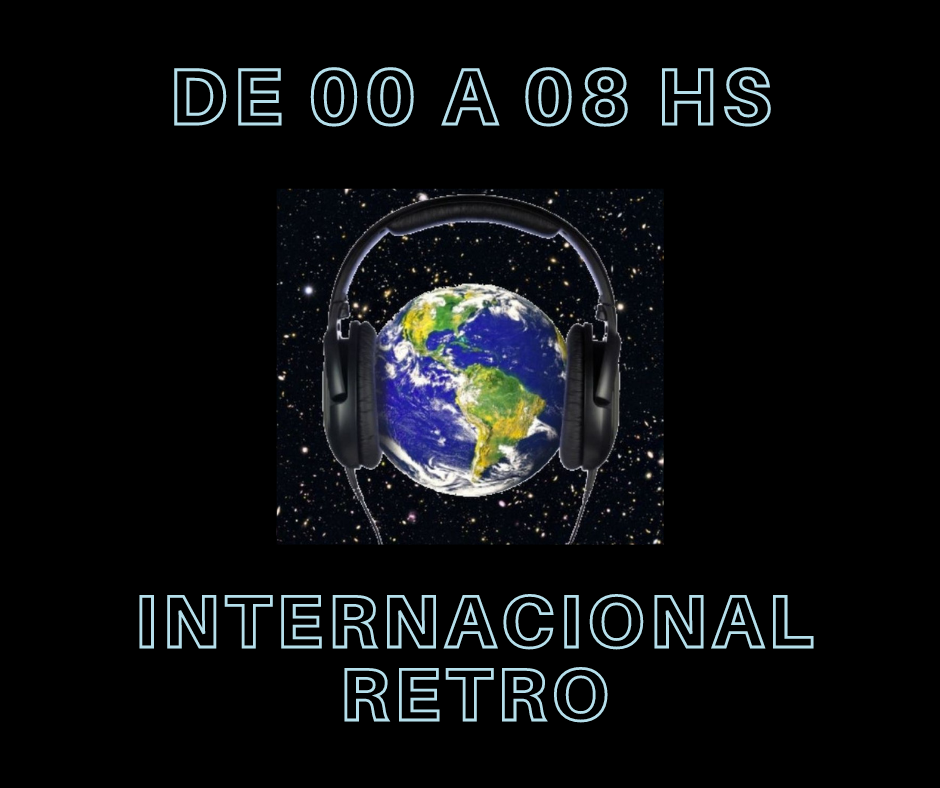
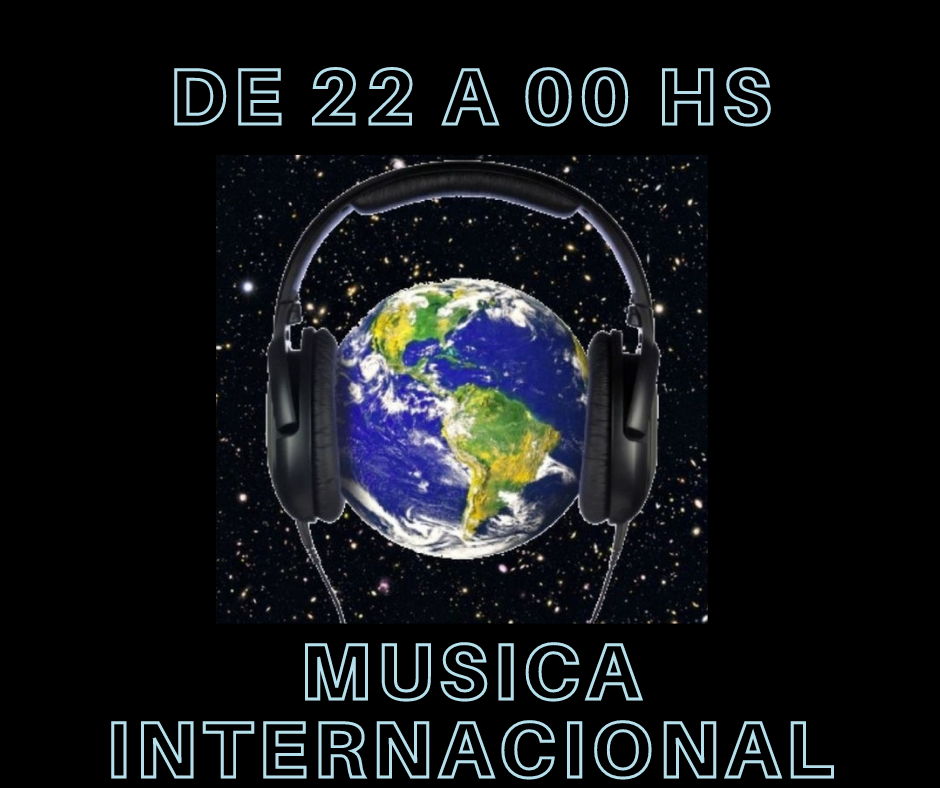
modificacion pagina nosotros

diff --git a/programacion.html b/programacion.html
@@ -66,23 +66,23 @@
                 <div class="card-group">
                     <div class="card cuatro">
                       <div class="card-body">
-                        <h4 class="card-title">De 8 a 14 hs</h4>
-                        <p class="card-text">Rock Nacional</p>
-                        <img class="card-img-bottom" src="./imagenes/rock_nacional.jpg" alt="banda del mes">
+                        <h4 class="card-title text-center">De 8 a 14 hs</h4>
+                        <p class="card-text text-center">Sólo música 100% nacional de hoy</p>
+                        <img class="card-img-bottom" src="./imagenes/programacion_08-14.png" alt="programacion">
                       </div>
                     </div>
                     <div class="card dos">
                       <div class="card-body">
-                        <h4 class="card-title">De 14 a 20 hs</h4>
-                        <p class="card-text">Rock Nacional Retro</p>
-                        <img class="card-img-bottom" src="./imagenes/nacionalretro.png" alt="banda del mes">
+                        <h4 class="card-title text-center">De 14 a 20 hs</h4>
+                        <p class="card-text text-center">Sólo música 100% nacional Retro</p>
+                        <img class="card-img-bottom" src="./imagenes/programacion_14-20.png" alt="programacion">
                       </div>        
                     </div>
                     <div class="card cuatro">
                         <div class="card-body">
-                          <h4 class="card-title">De 20 a 22 hs</h4>
-                          <p class="card-text">Metal variado</p>
-                          <img class="card-img-bottom" src="./imagenes/metal.png" alt="banda del mes">
+                          <h4 class="card-title text-center">De 20 a 22 hs</h4>
+                          <p class="card-text text-center">Heavy Metal de todos los tiempos</p>
+                          <img class="card-img-bottom" src="./imagenes/programacion_20-22.png" alt="programacion">
                         </div>
                       </div>
                     </div>
@@ -94,16 +94,16 @@
                 <div class="card-group">
                       <div class="card uno">
                           <div class="card-body">
-                            <h4 class="card-title">De 22 a 00 hs</h4>
-                            <p class="card-text">Internacionales</p>
-                            <img class="card-img-bottom" src="./imagenes/internacional.jpg" alt="banda del mes">
+                            <h4 class="card-title text-center">De 22 a 00 hs</h4>
+                            <p class="card-text text-center">Música en inglés</p>
+                            <img class="card-img-bottom" src="./imagenes/programacion_22-00.png" alt="programacion">
                           </div>
                       </div>
                       <div class="card uno">
                         <div class="card-body">
-                          <h4 class="card-title">De 00 a 08 hs</h4>
-                          <p class="card-text">Lentos internacionales</p>
-                          <img class="card-img-bottom" src="./imagenes/lentos_inter.jpg" alt="banda del mes">
+                          <h4 class="card-title text-center">De 00 a 08 hs</h4>
+                          <p class="card-text text-center">Los mejores lentos internacionales</p>
+                          <img class="card-img-bottom" src="./imagenes/programacion_00-08.png" alt="programacion ">
                         </div>
                     </div>
                 </div>

diff --git a/quienes.html b/quienes.html
@@ -80,20 +80,24 @@
                 <div class="col-12 col-sm-12 col-md-12 col-lg-12 col-xl-12">
                     <div id="carouselExampleInterval" class="carousel slide" data-ride="carousel">
                         <div class="carousel-inner">
+                            
                           <div class="carousel-item active" data-interval="2000">
-                            <img src="./imagenes/programacion_08-14.png" class="d-block w-100 " alt="programacion">
+                            <img src="./imagenes/programacion2022.png" class="d-block w-100 " alt="programacion" data-src="holder.js/900x300?auto=yes&bg=777&fg=555&text=First slide">
                           </div>
                           <div class="carousel-item" data-interval="2000">
-                            <img src="./imagenes/programacion_14-20.png" class="d-block w-100" alt="programacion">
+                            <img src="./imagenes/programacion_08-14.png" class="d-block w-100 " alt="programacion" data-src="holder.js/900x300?auto=yes&bg=777&fg=555&text=First slide">
                           </div>
                           <div class="carousel-item" data-interval="2000">
-                            <img src="./imagenes/programacion_20-22.png" class="d-block w-100" alt="programacion">
+                            <img src="./imagenes/programacion_14-20.png" class="d-block w-100" alt="programacion" data-src="holder.js/900x300?auto=yes&bg=777&fg=555&text=First slide">
                           </div>
                           <div class="carousel-item" data-interval="2000">
-                            <img src="./imagenes/programacion_22-00.png" class="d-block w-110" alt="programacion">
+                            <img src="./imagenes/programacion_20-22.png" class="d-block w-100" alt="programacion" data-src="holder.js/900x300?auto=yes&bg=777&fg=555&text=First slide">
                           </div>
                           <div class="carousel-item" data-interval="2000">
-                            <img src="./imagenes/programacion_00-08.png" class="d-block w-100" alt="programacion">
+                            <img src="./imagenes/programacion_22-00.png" class="d-block w-110" alt="programacion" data-src="holder.js/900x300?auto=yes&bg=777&fg=555&text=First slide">
+                          </div>
+                          <div class="carousel-item" data-interval="2000">
+                            <img src="./imagenes/programacion_00-08.png" class="d-block w-100" alt="programacion" data-src="holder.js/900x300?auto=yes&bg=777&fg=555&text=First slide">
                           </div>
                         </div> 
                         <button class="carousel-control-prev" type="button" data-target="#carouselExampleInterval" data-slide="prev">

diff --git a/sass/index.css b/sass/index.css
@@ -2,21 +2,29 @@
 /*Fuentes*/
 .uno {
   background-color: #025153;
+  padding-top: 20px;
+  padding-bottom: 20px;
   color: white;
 }
 
 .dos {
   background-color: #0c6e80;
+  padding-top: 20px;
+  padding-bottom: 20px;
   color: white;
 }
 
 .tres {
   background-color: #069297;
+  padding-top: 20px;
+  padding-bottom: 20px;
   color: white;
 }
 
 .cuatro {
   background-color: #50db26;
+  padding-top: 20px;
+  padding-bottom: 20px;
   color: white;
 }
 

diff --git a/contacto.html b/contacto.html
@@ -66,7 +66,7 @@
       <img id="micro" src="./imagenes/vj-radio-microphone.png" class="img-fluid" alt="Responsive image">
     </div>
     <div class="col-12 col-sm-6 col-md-6 col-lg-6 col-xl-4 cuatro">
-      <form>
+      <form class="mt-5 mb-5">
         <div class="form-group">
           <label for="formGroupExampleInput">Asunto</label>
           <input type="text" class="form-control" id="formGroupExampleInput" placeholder="asunto">

diff --git a/sass/views/_contacto.scss b/sass/views/_contacto.scss
@@ -1,20 +1,28 @@
 .uno{
   @include fondo(color1);
+  padding-top: 20px;
+  padding-bottom: 20px;
   color: white;
 }
 
 .dos{
   @include fondo(color2);
+  padding-top: 20px;
+  padding-bottom: 20px;
   color: white;
 }
 
 .tres{
   @include fondo(color3);
+  padding-top: 20px;
+  padding-bottom: 20px;
   color: white;
 }
 
 .cuatro{
   @include fondo(color4);
+  padding-top: 20px;
+  padding-bottom: 20px;
   color: white;
 }
 
